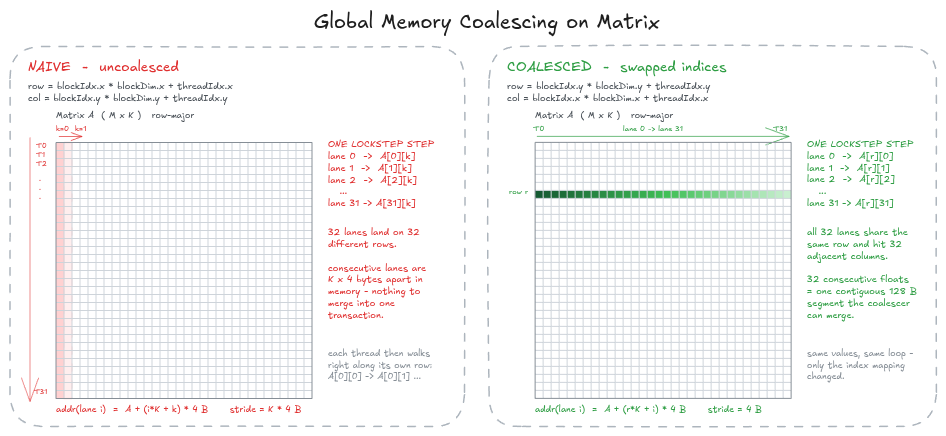
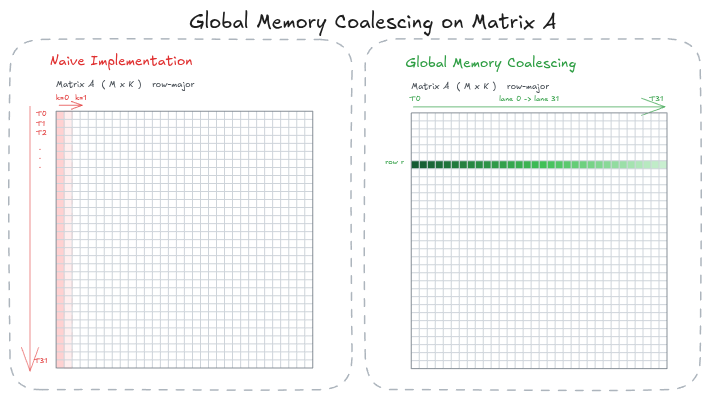
rough finish on page 4 and page 5

diff --git a/app/(essays)/essays/components/blog-markdown.tsx b/app/(essays)/essays/components/blog-markdown.tsx
@@ -139,6 +139,68 @@ function normalizeHeading(text: string) {
   return text.trim().toLowerCase();
 }
 
+// GFM pipe tables. A table is a header row, a delimiter row, then body rows:
+//   | load  | naive      | coalesced |
+//   |-------|------------|-----------|
+//   | A     | 32 sectors | 1 sector  |
+// Outer pipes are optional, and a colon in the delimiter row sets the column's
+// alignment (`:---` left, `:---:` center, `---:` right).
+const tableDelimiterPattern = /^\s*\|?(\s*:?-+:?\s*\|)*\s*:?-+:?\s*\|?\s*$/;
+
+function isTableRow(line: string | undefined) {
+  return Boolean(line?.trim().startsWith("|"));
+}
+
+// A table needs both lines to commit: a lone `|` line is just a paragraph.
+function isTableStart(lines: string[], index: number) {
+  return (
+    isTableRow(lines[index]) &&
+    lines[index + 1] !== undefined &&
+    tableDelimiterPattern.test(lines[index + 1]) &&
+    lines[index + 1].includes("-")
+  );
+}
+
+// Split on unescaped pipes, dropping the optional outer pair. `\|` survives as a
+// literal so a cell can contain one.
+function splitTableRow(line: string) {
+  const trimmed = line.trim().replace(/^\|/, "").replace(/\|$/, "");
+  const cells: string[] = [];
+  let cell = "";
+
+  for (let i = 0; i < trimmed.length; i += 1) {
+    if (trimmed[i] === "\\" && trimmed[i + 1] === "|") {
+      cell += "|";
+      i += 1;
+      continue;
+    }
+
+    if (trimmed[i] === "|") {
+      cells.push(cell.trim());
+      cell = "";
+      continue;
+    }
+
+    cell += trimmed[i];
+  }
+
+  cells.push(cell.trim());
+
+  return cells;
+}
+
+function tableAlignments(delimiter: string) {
+  return splitTableRow(delimiter).map((cell) => {
+    const left = cell.startsWith(":");
+    const right = cell.endsWith(":");
+
+    if (left && right) return "text-center";
+    if (right) return "text-right";
+
+    return "text-left";
+  });
+}
+
 interface BlogMarkdownProps {
   body: string;
   title?: string;
@@ -442,6 +504,62 @@ export async function BlogMarkdown({ body, title }: BlogMarkdownProps) {
       continue;
     }
 
+    if (isTableStart(lines, index)) {
+      const header = splitTableRow(lines[index]);
+      const alignments = tableAlignments(lines[index + 1]);
+      index += 2;
+
+      const rows: string[][] = [];
+
+      while (index < lines.length && isTableRow(lines[index])) {
+        rows.push(splitTableRow(lines[index]));
+        index += 1;
+      }
+
+      elements.push(
+        <div key={`table-${index}`} className="my-10 overflow-x-auto">
+          <table className="w-full border-collapse text-sm leading-[1.7] text-foreground">
+            <thead>
+              <tr className="border-b border-neutral-300 dark:border-neutral-700">
+                {header.map((cell, cellIndex) => (
+                  <th
+                    key={`th-${cellIndex}`}
+                    className={`px-3 py-2 font-medium ${
+                      alignments[cellIndex] ?? "text-left"
+                    }`}
+                  >
+                    {renderInlineMarkdown(cell)}
+                  </th>
+                ))}
+              </tr>
+            </thead>
+            <tbody>
+              {rows.map((row, rowIndex) => (
+                <tr
+                  key={`tr-${rowIndex}`}
+                  className="border-b border-neutral-200 last:border-0 dark:border-neutral-800"
+                >
+                  {/* Pad short rows so the columns stay aligned. */}
+                  {header.map((_, cellIndex) => (
+                    <td
+                      key={`td-${cellIndex}`}
+                      className={`px-3 py-2 align-top ${
+                        alignments[cellIndex] ?? "text-left"
+                      }`}
+                    >
+                      {renderInlineMarkdown(row[cellIndex] ?? "")}
+                    </td>
+                  ))}
+                </tr>
+              ))}
+            </tbody>
+          </table>
+        </div>
+      );
+
+      continue;
+    }
+
     const paragraphLines = [line];
     index += 1;
 
@@ -455,7 +573,8 @@ export async function BlogMarkdown({ body, title }: BlogMarkdownProps) {
       !orderedItemPattern.test(lines[index]) &&
       !lines[index].startsWith("```") &&
       !lines[index].trim().startsWith(":::") &&
-      !lines[index].trim().startsWith("![")
+      !lines[index].trim().startsWith("![") &&
+      !isTableStart(lines, index)
     ) {
       paragraphLines.push(lines[index]);
       index += 1;

diff --git a/content/essays/article4/page4.md b/content/essays/article4/page4.md
@@ -1,37 +1,74 @@
 ## Global Memory Coalescing
 
-The naive kernel implementation loads the right values in the wrong order. Right now the way we are assigning the global thread index to the row and col variables will result in all of the threads accessing data from the global memory in a unconsecutive manner. 
+From the naive kernel implementation, we have established that the kernel loads the right values in a inefficient order. Right now the way we are assigning the global thread index to the row and col variables will result in all of the threads accessing data from the global memory in a non-contiguous manner. 
 
-From a warp perspective of A, each thread access a different row at 1 lockstep. A thread would access the row C[0][n], the next thread will access c[1][n]; each thread within the warp accesses a new row. From a thread persepctive, a thread walks along row and access a new element. Suppose the thread 0's first iteration access c[0][0], the second iteration the thread will access c[0][1]. Each time the warp fetches a new element is needs to load the whole 32 byte row. 
+From a warp perspective of matrix A, each thread accesses a different row in memory during 1 lockstep. A thread would access `A[0][k]`, the next thread will access `A[1][k]`; each thread within the warp accesses a new row. Consecutive lanes land K x 4 bytes apart, so there is nothing for the hardware to merge. 
 
-Within A, we can conclude that each thread accessing a new row for a single element is very wasteful. Each thread fetching a 32 bytes just to use 4 bytes of memory is wasteful. If instead we can have all threads within the same warp access data sequentially such that each element is adjacenet to each other, every thread would load the value from one 32 byte loads with nothing wasted. 
+From a thread perspective of matrix A, a thread walks along its row and accesses a new element. Suppose thread 0's first iteration accesses `A[0][0]`, the second iteration the thread will access `A[0][1]`. Each time the warp goes through a new iteration it fetches a new element, and each of those fetches pulls in a whole 32 byte sector only to use a 4 byte float. 
 
-![Left: the naive mapping puts threadIdx.x on row, so a warp's 32 lanes land on 32 different rows of A, each K·4 bytes apart in memory - nothing to merge into one transaction. Right: swapping the mapping puts threadIdx.x on col, so all 32 lanes share one row and hit 32 adjacent columns instead - one contiguous 128 B segment the hardware can coalesce into a single transaction.](/images/gemm/coalescing-access-pattern.png "large")
+With matrix A, we can conclude that each thread fetching 32 bytes just to use 4 bytes of memory is wasteful. To enable global memory coalescing we can swap the global thread index assignment to the row and col variables so that `threadIdx.x` maps to col, making col the fastest changing index across a warp. 
 
-``` latex
-1024\text{ B} = 32 \text{ sectors} \times 32\text{ B/sector}, \qquad 128\text{ B} = 32 \text{ threads} \times 4\text{ B/float}
-```
+Changing the global thread index between the row and col would change how A is accessed. Instead of 32 threads accessing 32 separate rows, all 32 threads will access the same row — and within a single lockstep the same element. As a result, the hardware serves that one address out of a single sector and broadcasts the value to all 32 lanes. 
 
-That's the accounting. Here's what it looks like at the sector level.
+![Left: the naive mapping puts threadIdx.x on row, so a warp's 32 lanes land on 32 different rows of A, each K·4 bytes apart in memory - nothing to merge into one transaction. Right: swapping the mapping puts threadIdx.x on col, so all 32 lanes sit on the same row of A and their accesses collapse into a single 128 B segment instead of 32 scattered ones.](/images/gemm/coalescing-access-pattern.png "large")
 
-![Four 32 B sectors, eight 4 B slots each. Naive: each lane claims a whole sector for its one 4-byte value, so only 1 of 8 slots per sector is ever used — 32 sectors moved, 1024 B, 128 B of it useful. Coalesced: all 32 lanes pack into the same four sectors, every slot filled — 4 sectors moved, 128 B, all of it useful.](/images/gemm/sector-utilization.png "large")
+Matrix B behaves differently with the naive kernel implementation. The `col` variable is assigned with threadIdx.y, which is a constant value across all 32 threads within a warp. What differs across the lanes is `threadIdx.x`, and that index is feeding row, not col. Every lane computes the same column element and asks for the same address. The hardware loads one 32 byte sector, uses 4 bytes of it and broadcasts that single float to all 32 registers. Each iteration the threads step down one row on the same column.
 
-Coalesced never asks the memory system for more than it needs — four sectors, and every slot inside them is a lane that's actually waiting on that value. Naive asks for the same four-sector footprint thirty-two separate times, once per lane, and each time only one of the eight slots inside is doing anything. Same hardware, same 32 B granularity — the only thing that changed is whether the requests line up well enough to share.
+In matrix B, all 32 threads read the same row of B during a single lockstep, one thread per adjacent column. Because matrix B is stored in row-major order, those adjacent cells sit sequentially in physical memory. The hardware packs the 128 bytes into 4 consecutive 32 byte sectors. This is a perfectly coalesced access. 
 
+![Left: the naive mapping takes col from threadIdx.y, so all 32 lanes of a warp resolve to the same column of B - one address, one 32 B sector loaded, 4 B of it used and the rest of the warp served by broadcast, and each k step walks one row down that same column. Right: taking col from threadIdx.x puts the 32 lanes on 32 adjacent columns of row k - 128 contiguous bytes packed into 4 x 32 B sectors with every byte used, and the whole warp drops one row per k step.](/images/gemm/coalescing-matrix-b.png "large")
+
+### The Code
+
+The launch configuration is unchanged from kernel 1 — `32 x 32` threads per block, one thread per output element, `CEIL_DIV(N, 32) x CEIL_DIV(M, 32)` blocks:
 
 ```cuda
-template <const int BLOCKSIZE>
-__global__ void sgemm_coalesced_2d(int M, int N, int K, float alpha, const float *A, const float *B, float beta, float *C) {
-  
-  const int row = blockIdx.y * BLOCKSIZE + threadIdx.y;
-  const int col = blockIdx.x * BLOCKSIZE + threadIdx.x;
-
-  if (row < M && col < N) {
-    float temp = 0.0f;
-    for (int i = 0; i < K; ++i) {
-      temp += A[row * K + i] * B[i * N + col];
-    }
-    C[row * N + col] = alpha * temp + beta * C[row * N + col];
-  }
-}
+dim3 gridDim(CEIL_DIV(N, BLOCKSIZE), CEIL_DIV(M, BLOCKSIZE), 1);
+dim3 blockDim(BLOCKSIZE, BLOCKSIZE);
 ```
+
+The kernel body is unchanged too. The entire delta is which component of `threadIdx` feeds which variable:
+
+```cuda
+// kernel 1 — naive
+const int row = blockIdx.y * BLOCKSIZE + threadIdx.x;
+const int col = blockIdx.x * BLOCKSIZE + threadIdx.y;
+
+// kernel 2 — coalesced
+const int row = blockIdx.y * BLOCKSIZE + threadIdx.y;
+const int col = blockIdx.x * BLOCKSIZE + threadIdx.x;
+```
+
+Two lines. Same loop, same arithmetic, same number of loads.
+
+### Mechanics
+
+1. **Why `threadIdx.x` is the index that matters.** A block's threads are linearized as `threadIdx.x + blockDim.x * threadIdx.y` before being cut into warps of 32. With `blockDim.x = 32`, a warp is exactly one row of the block: 32 consecutive values of `threadIdx.x` at a single `threadIdx.y`. Whichever variable `threadIdx.x` feeds is the one that varies across a warp, and that variable decides whether the warp's addresses are contiguous. Kernel 1 fed it to `row`; kernel 2 feeds it to `col`.
+
+2. **C moves with the loads.** The swap is usually described in terms of A and B, but `C[row * N + col]` is indexed by the same variables. Its read-back for `beta` and its store both go from 32 sectors to 4. C is touched once per thread rather than once per K iteration, so it barely shows up in the total, but it is the same fix.
+
+3. **The guard is not doing anything here.** `if (row < M && col < N)` never fires at `M = N = K = 4096`, because 4096 is exactly 128 blocks of 32. It exists so the kernel stays correct when the dimensions are not multiples of `BLOCKSIZE`.
+
+Kernel 2 runs in **43.532 ms at 3157.2 GFLOP/s — 8.1% of cuBLAS at `M = N = K = 4096`**, against 300.088 ms and 1.2% for the naive kernel. A 6.9x speedup for a two line change.
+
+### Counting Transactions Instead of Accesses
+
+The access count did not move, so the speedup has to come out of the transactions. Counting sectors per warp per step of the K loop:
+
+| load | naive | coalesced |
+|---|---|---|
+| A | 32 lanes, stride `K x 4` = 16 KB apart — **32 sectors** | one address, broadcast — **1 sector** |
+| B | one address, broadcast — **1 sector** | 32 adjacent floats, 128 B — **4 sectors** |
+| **total** | **33 sectors = 1056 B** | **5 sectors = 160 B** |
+
+That predicts **6.6x fewer bytes moved**, and the measured speedup is 6.9x. The two matrices trade places: A was the scattered one and becomes the broadcast, B was the broadcast and becomes the contiguous one. Only B ends up in the textbook coalesced case, and it is worth seeing what that case looks like from the memory system's side.
+
+Naive, each lane claims its own 32 byte sector for a single 4 byte value: 32 sectors x 32 bytes = 1024 bytes moved, only 128 bytes of it used, 12.5% efficiency. Once the lanes of a warp are contiguous, one 32 byte sector covers 8 lanes instead of 1: 4 sectors x 32 bytes = 128 bytes moved, all 128 bytes used, 100% efficiency. Same hardware, same 32 byte sector size — the only thing that changed is how many lanes share one sector. 
+
+![Naive: one 32 B sector per lane, 1 of 8 slots used — 32 sectors x 32 B = 1024 B moved, only 128 B used, 12.5% efficiency. Coalesced: one 32 B sector per 8 lanes, all 8 slots used — 4 sectors x 32 B = 128 B moved, all 128 B used, 100% efficiency.](/images/gemm/sector-utilization.png "large")
+
+### What Is Still Wrong
+
+Every byte this kernel fetches now gets used — B's sectors by the whole warp at once, A's by the next seven steps of the K loop — and it is still at 8.1% of cuBLAS. The reason is the number that never changed: `2K` = 8192 global loads per output element, one from A and one from B on every trip through the K loop. We made each of those loads cheap; we did not make any of them go away. Every element of A is still fetched once for every thread that needs it, and so is every element of B.
+
+Before attacking that, there is one piece of index arithmetic worth isolating while the kernel is still this small. Every kernel from here on computes a thread's position inside a tile from a flat `threadIdx.x` rather than from a 2D block shape, and getting that mapping backwards silently undoes everything this section just bought.

diff --git a/content/essays/article4/page5.md b/content/essays/article4/page5.md
@@ -1,5 +1,14 @@
 ## Flattening the Block
 
+Kernel 2 got its warp layout for free: `blockDim` was 2D, so `threadIdx.x` already ran along the row of the block and the hardware handed us contiguous lanes. Every kernel after this one launches a flat block and rebuilds that 2D position by hand. This kernel does the mapping and nothing else, so the arithmetic can be looked at once on its own before tiling is stacked on top of it.
+
+The launch is the only thing that changes on the host side:
+
+```cuda
+dim3 gridDim(CEIL_DIV(N, BLOCKSIZE), CEIL_DIV(M, BLOCKSIZE), 1);
+dim3 blockDim(BLOCKSIZE * BLOCKSIZE);   // 1024 flat threads, not 32 x 32
+```
+
 ```cuda
 template <const int BLOCKSIZE>
 __global__ void sgemm_coalesced_1d(int M, int N, int K, float alpha, const float *A, const float *B, float beta, float *C) {
@@ -15,3 +24,13 @@ __global__ void sgemm_coalesced_1d(int M, int N, int K, float alpha, const float
   }
 }
 ```
+
+### Mechanics
+
+1. **The `%` has to land on the column.** `threadIdx.x % BLOCKSIZE` is the term that changes for every consecutive thread, and `threadIdx.x / BLOCKSIZE` is the term that stays fixed across 32 of them. Threads 0 through 31 are one warp, so putting `%` on `col` reproduces exactly the layout kernel 2 got from a 2D `blockDim` — one row, 32 adjacent columns. Swap the two operators and every warp reads a column again; the kernel still computes the right answer at a sixth of the speed.
+
+2. **Why not keep the 2D block.** Once tiles arrive, the same set of threads is decomposed two different ways: one shape to cooperatively load a tile from global memory, another to compute with it. Neither decomposition can be the launch shape, so both get derived from a flat index. Starting that here keeps the next kernel about tiling rather than about indexing.
+
+Kernel 3 runs in **43.320 ms at 3172.7 GFLOP/s**, against kernel 2's 43.532 ms — the same 8.1% of cuBLAS at `M = N = K = 4096`, and the 0.5% difference is inside run-to-run clock variation. It is a no-op, which is the point: the mapping is free, and now it is written down.
+
+What it does not fix is the count. Every element of A is still loaded once for every thread in that column of C, and every element of B once for every thread in that row — the same value pulled from global memory over and over by threads sitting in the same block, which could have shared it.
